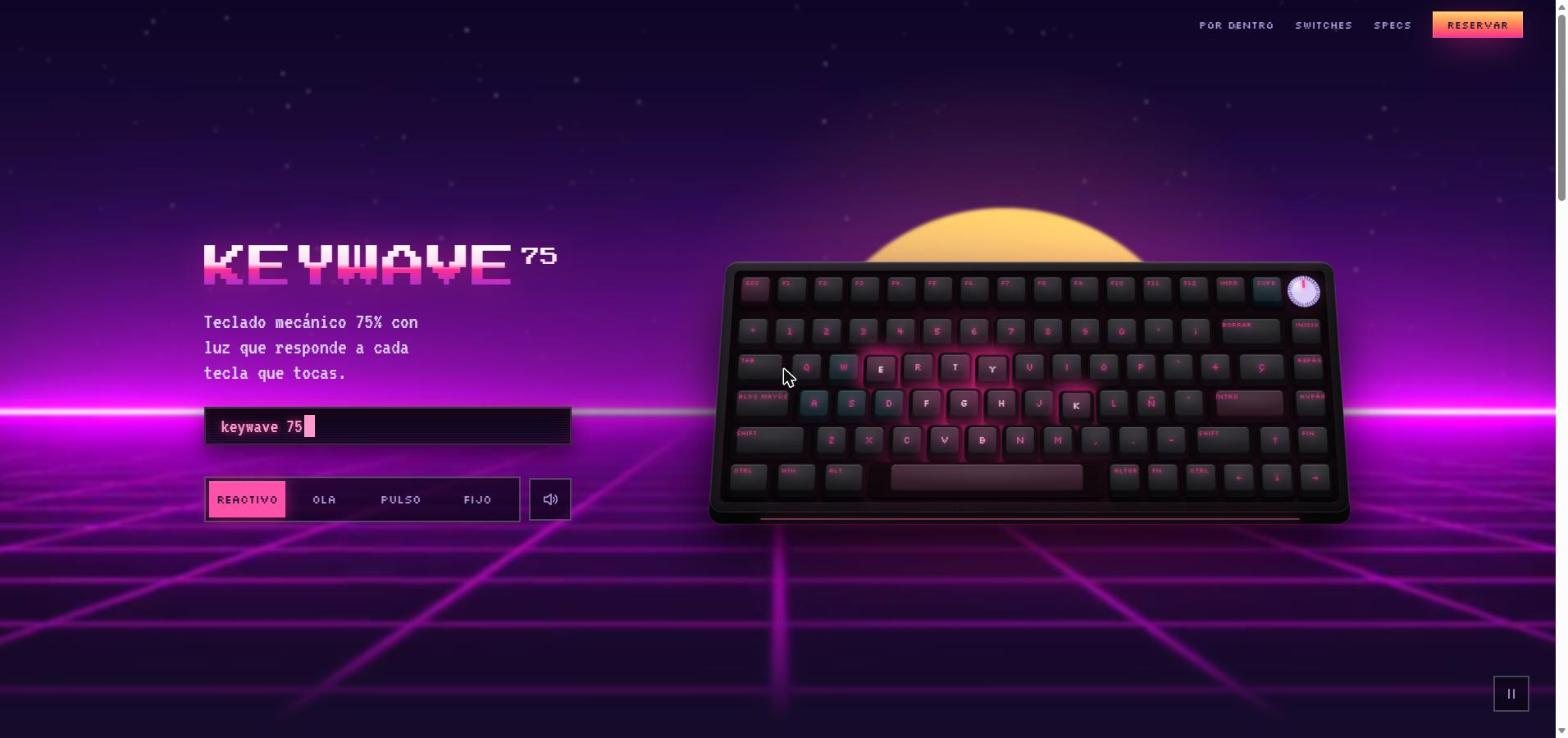
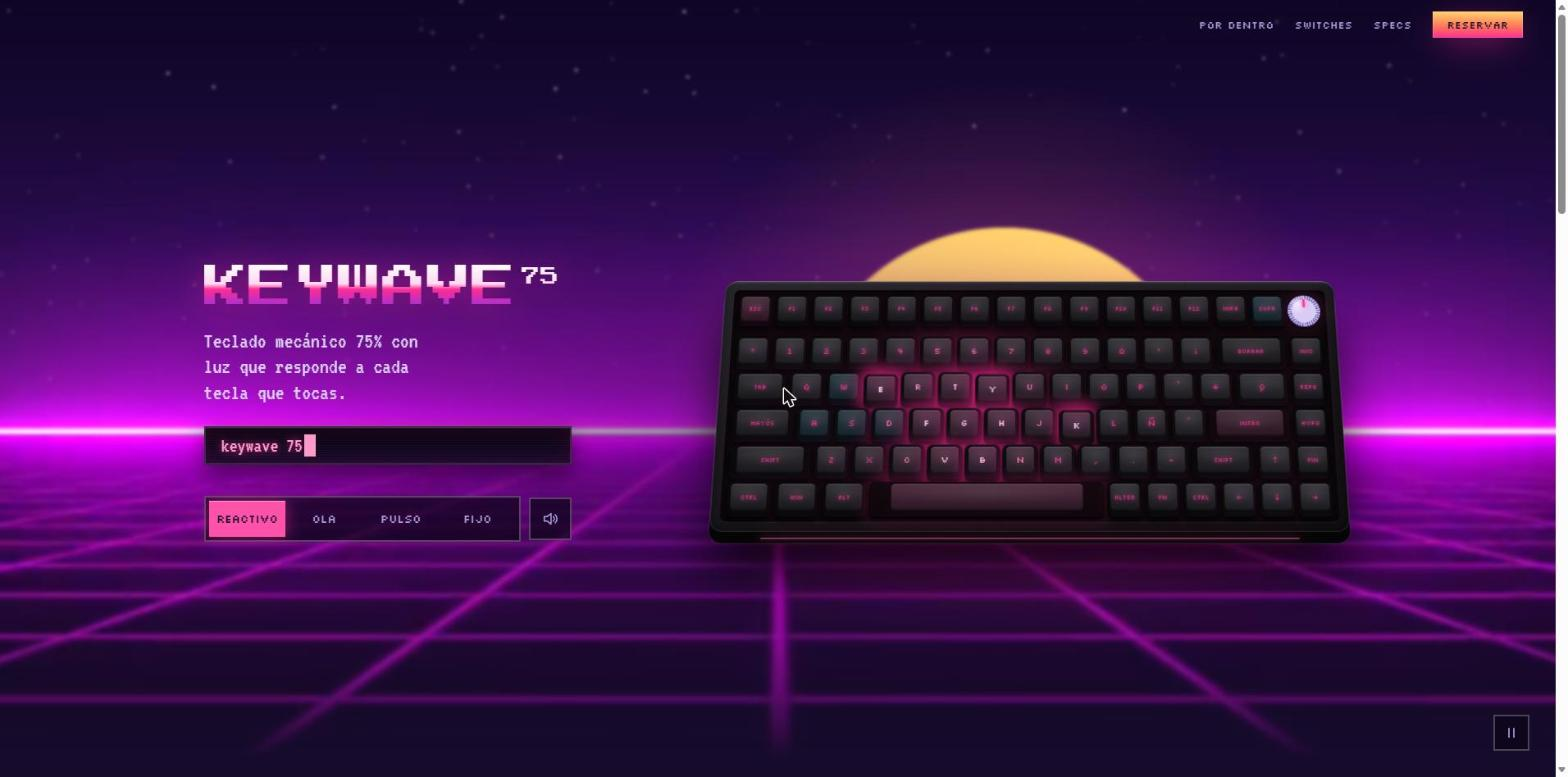
Teclado: leyendas centradas y que siempre caben en su tecla
- Cada leyenda ocupa exactamente la cara superior del keycap y se
  centra ahí (antes quedaban arriba a la izquierda, sobre el faldón)
- Nombres cortos como en teclados compactos: Mayús, Inic, RePg, AvPg
- Ajuste automático: al cargar la fuente se mide cada nombre y, si no
  cabe, se achica lo justo

diff --git a/js/script.js b/js/script.js
@@ -17,11 +17,11 @@ const LAYOUT = [
   [["Esc", "Escape", 1], ...Array.from({ length: 12 }, (_, i) => ["F" + (i + 1), "F" + (i + 1), 1]),
     ["Impr", "PrintScreen", 1], ["Supr", "Delete", 1], ["KNOB"]],
   [["º", "Backquote", 1, "º"], ...DIGITS, ["'", "Minus", 1, "'"], ["¡", "Equal", 1, "¡"],
-    ["Borrar", "Backspace", 2], ["Inicio", "Home", 1]],
+    ["Borrar", "Backspace", 2], ["Inic", "Home", 1]],
   [["Tab", "Tab", 1.5], ...LETTERS("QWERTYUIOP"), ["`", "BracketLeft", 1, "`"], ["+", "BracketRight", 1, "+"],
-    ["Ç", "Backslash", 1.5, "ç"], ["RePág", "PageUp", 1]],
-  [["Bloq Mayús", "CapsLock", 1.75], ...LETTERS("ASDFGHJKL"), ["Ñ", "Semicolon", 1, "ñ"], ["´", "Quote", 1, "´"],
-    ["Intro", "Enter", 2.25], ["AvPág", "PageDown", 1]],
+    ["Ç", "Backslash", 1.5, "ç"], ["RePg", "PageUp", 1]],
+  [["Mayús", "CapsLock", 1.75], ...LETTERS("ASDFGHJKL"), ["Ñ", "Semicolon", 1, "ñ"], ["´", "Quote", 1, "´"],
+    ["Intro", "Enter", 2.25], ["AvPg", "PageDown", 1]],
   [["Shift", "ShiftLeft", 2.25], ...LETTERS("ZXCVBNM"), [",", "Comma", 1, ","], [".", "Period", 1, "."], ["-", "Slash", 1, "-"],
     ["Shift", "ShiftRight", 1.75], ["↑", "ArrowUp", 1], ["Fin", "End", 1]],
   [["Ctrl", "ControlLeft", 1.25], ["Win", "MetaLeft", 1.25], ["Alt", "AltLeft", 1.25], ["", "Space", 6.25, " "],
@@ -61,7 +61,7 @@ LAYOUT.forEach((row, y) => {
       + (TECLAS_CIAN.has(code) ? " key--cian" : "");
     el.style.setProperty("--w", w);
     el.dataset.code = code;
-    el.innerHTML = `<span class="cap"><span class="legend">${legend}</span></span>`;
+    el.innerHTML = `<span class="cap"><span class="legend"><span class="legend__txt">${legend}</span></span></span>`;
     rowEl.append(el);
     const k = { el, code, x: x + w / 2, y: y + (y > 0 ? 0.2 : 0) + 0.5, l: 0, h: 330, char, down: false };
     keys.push(k);
@@ -70,6 +70,22 @@ LAYOUT.forEach((row, y) => {
   });
   board.append(rowEl);
 });
+
+// Ajuste de leyendas: si un nombre no cabe en la cara de su tecla, se achica lo justo.
+// La proporción no depende del tamaño de pantalla (todo escala con --u), así que basta
+// con medir una vez cuando la fuente terminó de cargar.
+function ajustarLeyendas() {
+  for (const k of keys) {
+    const caja = k.el.querySelector(".legend");
+    const texto = caja.firstChild;
+    k.el.style.removeProperty("--ajuste");
+    const disponible = caja.clientWidth * 0.86;
+    if (texto.offsetWidth > disponible) {
+      k.el.style.setProperty("--ajuste", (disponible / texto.offsetWidth).toFixed(3));
+    }
+  }
+}
+document.fonts.ready.then(ajustarLeyendas);
 
 /* ---------------------------------------------------------
    2. Motor de luz (animación propia del equipo)

diff --git a/css/style.css b/css/style.css
@@ -371,17 +371,19 @@ a { color: inherit; }
     linear-gradient(180deg, color-mix(in srgb, var(--top) 90%, #fff), var(--top));
   box-shadow: inset 0 1px 0 #ffffff2e, inset 0 -1px 2px #0007;
 }
-/* leyenda RGB: la letra es la luz; siempre de color y más brillante al iluminarse */
+/* leyenda RGB: la letra es la luz; siempre de color y más brillante al iluminarse.
+   Ocupa exactamente la cara superior del keycap y se centra ahí. */
 .legend {
-  position: relative;
-  font: 400 calc(var(--u) * .18)/1 var(--ui);
+  position: absolute;
+  left: 9%; right: 9%; top: 6%; bottom: 18%;
+  display: flex; align-items: center; justify-content: center;
+  font: 400 calc(var(--u) * .16 * var(--ajuste, 1))/1 var(--ui);
   color: hsl(var(--h) 100% calc(60% + var(--l) * 30%));
   text-shadow: 0 0 calc(var(--u) * (.1 + var(--l) * .35)) hsl(var(--h) 100% 55%);
   opacity: calc(.72 + var(--l) * .28);
   white-space: nowrap;
 }
-.key--alpha .cap { justify-content: center; align-items: center; padding: 0 0 calc(var(--u) * .1); }
-.key--alpha .legend { font-size: calc(var(--u) * .26); }
+.key--alpha .legend { font-size: calc(var(--u) * .24 * var(--ajuste, 1)); }
 .key.is-down .cap {
   transform: translateY(calc(var(--u) * .055));
   box-shadow:
